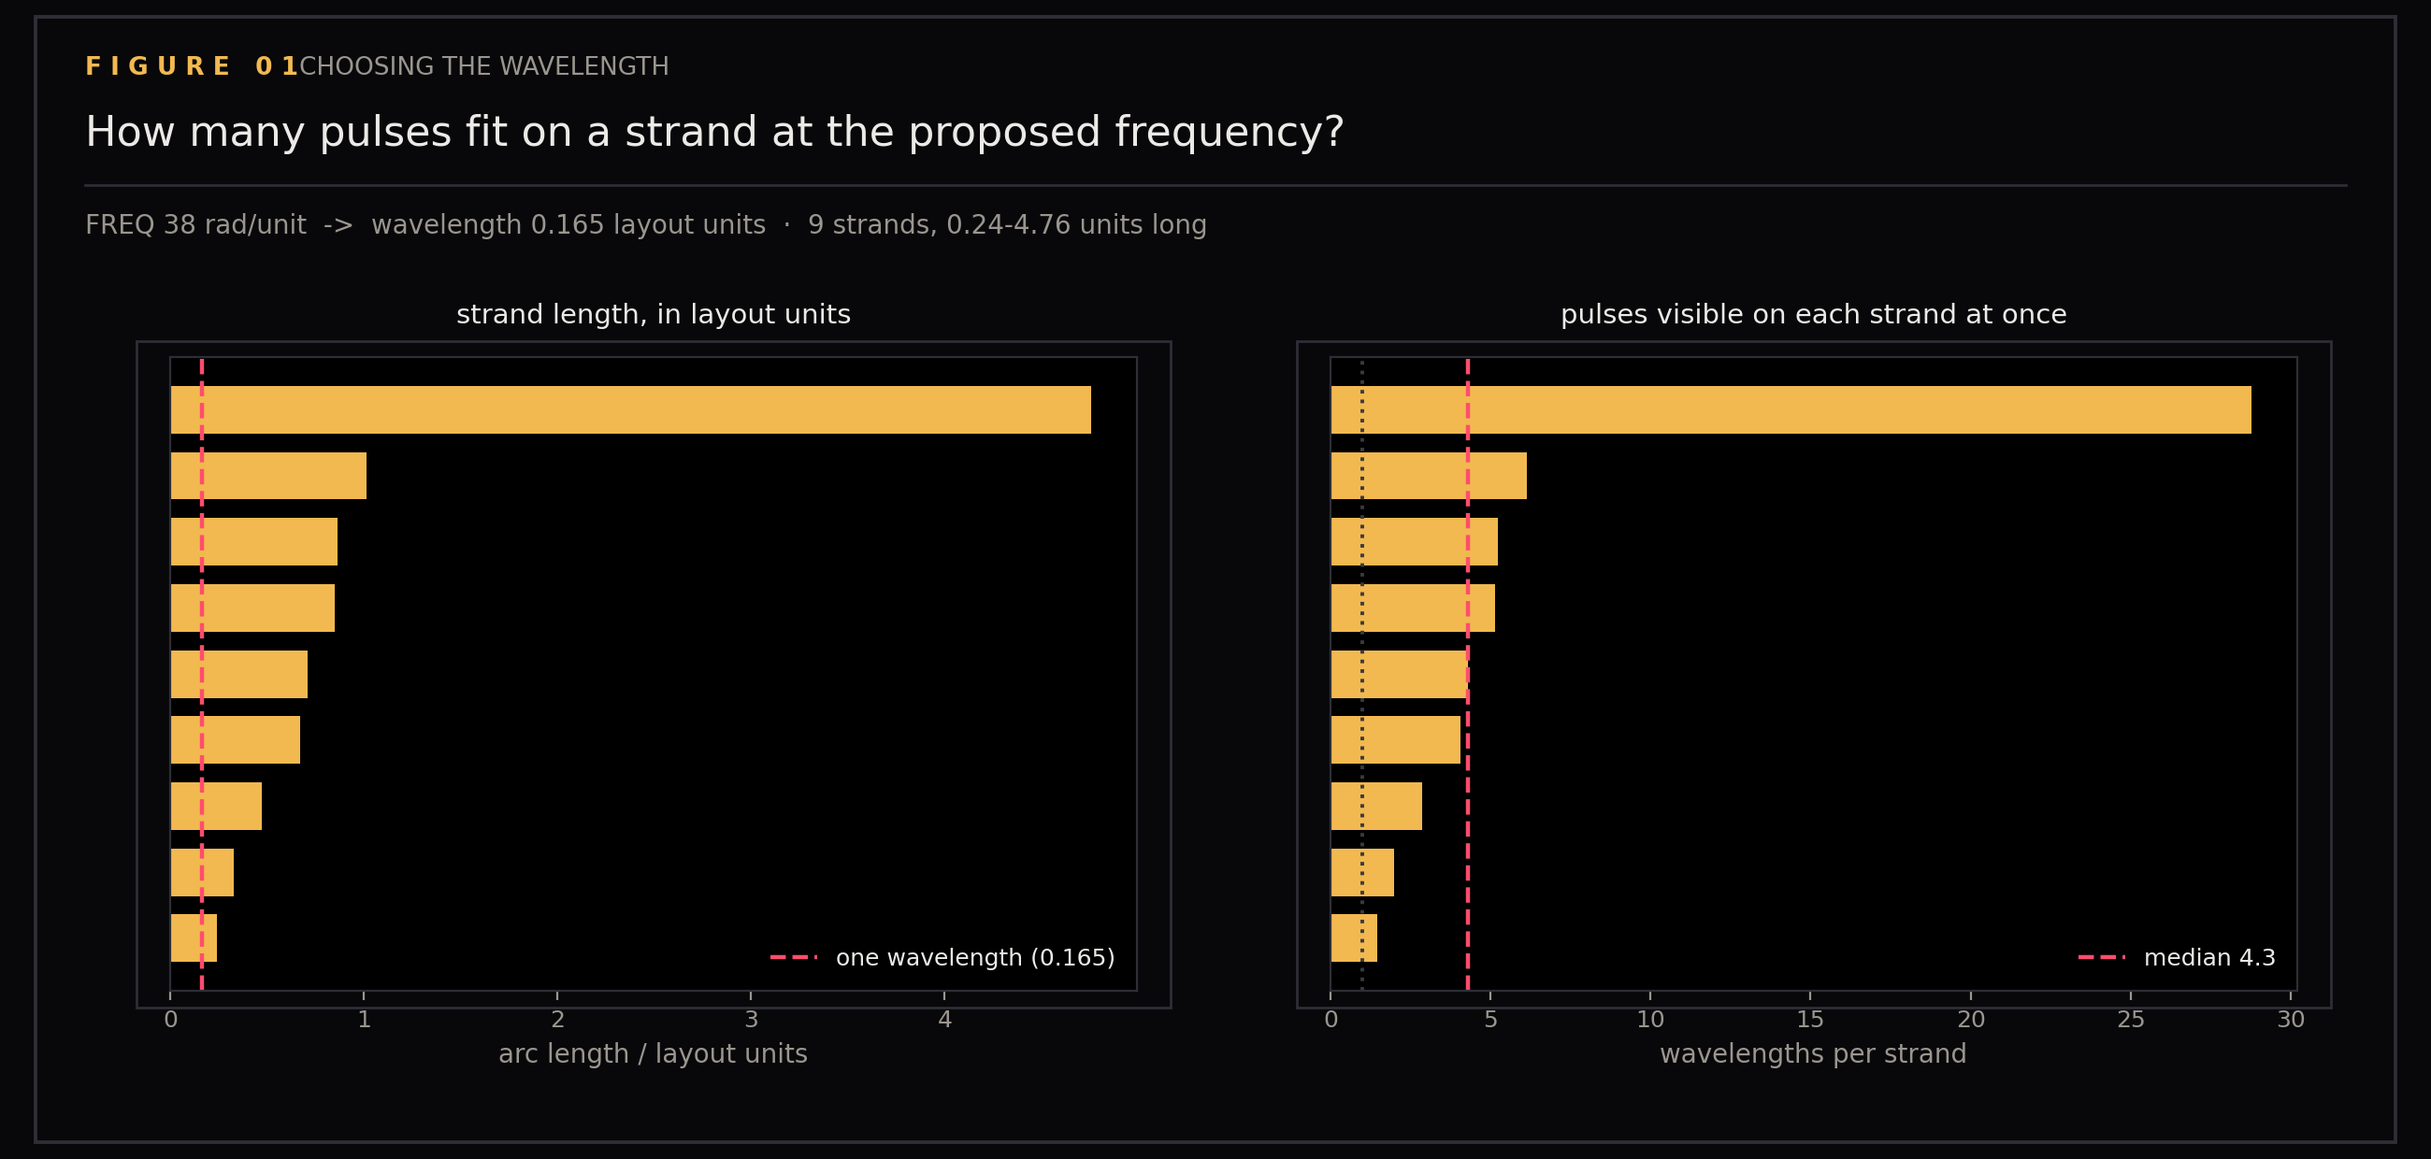
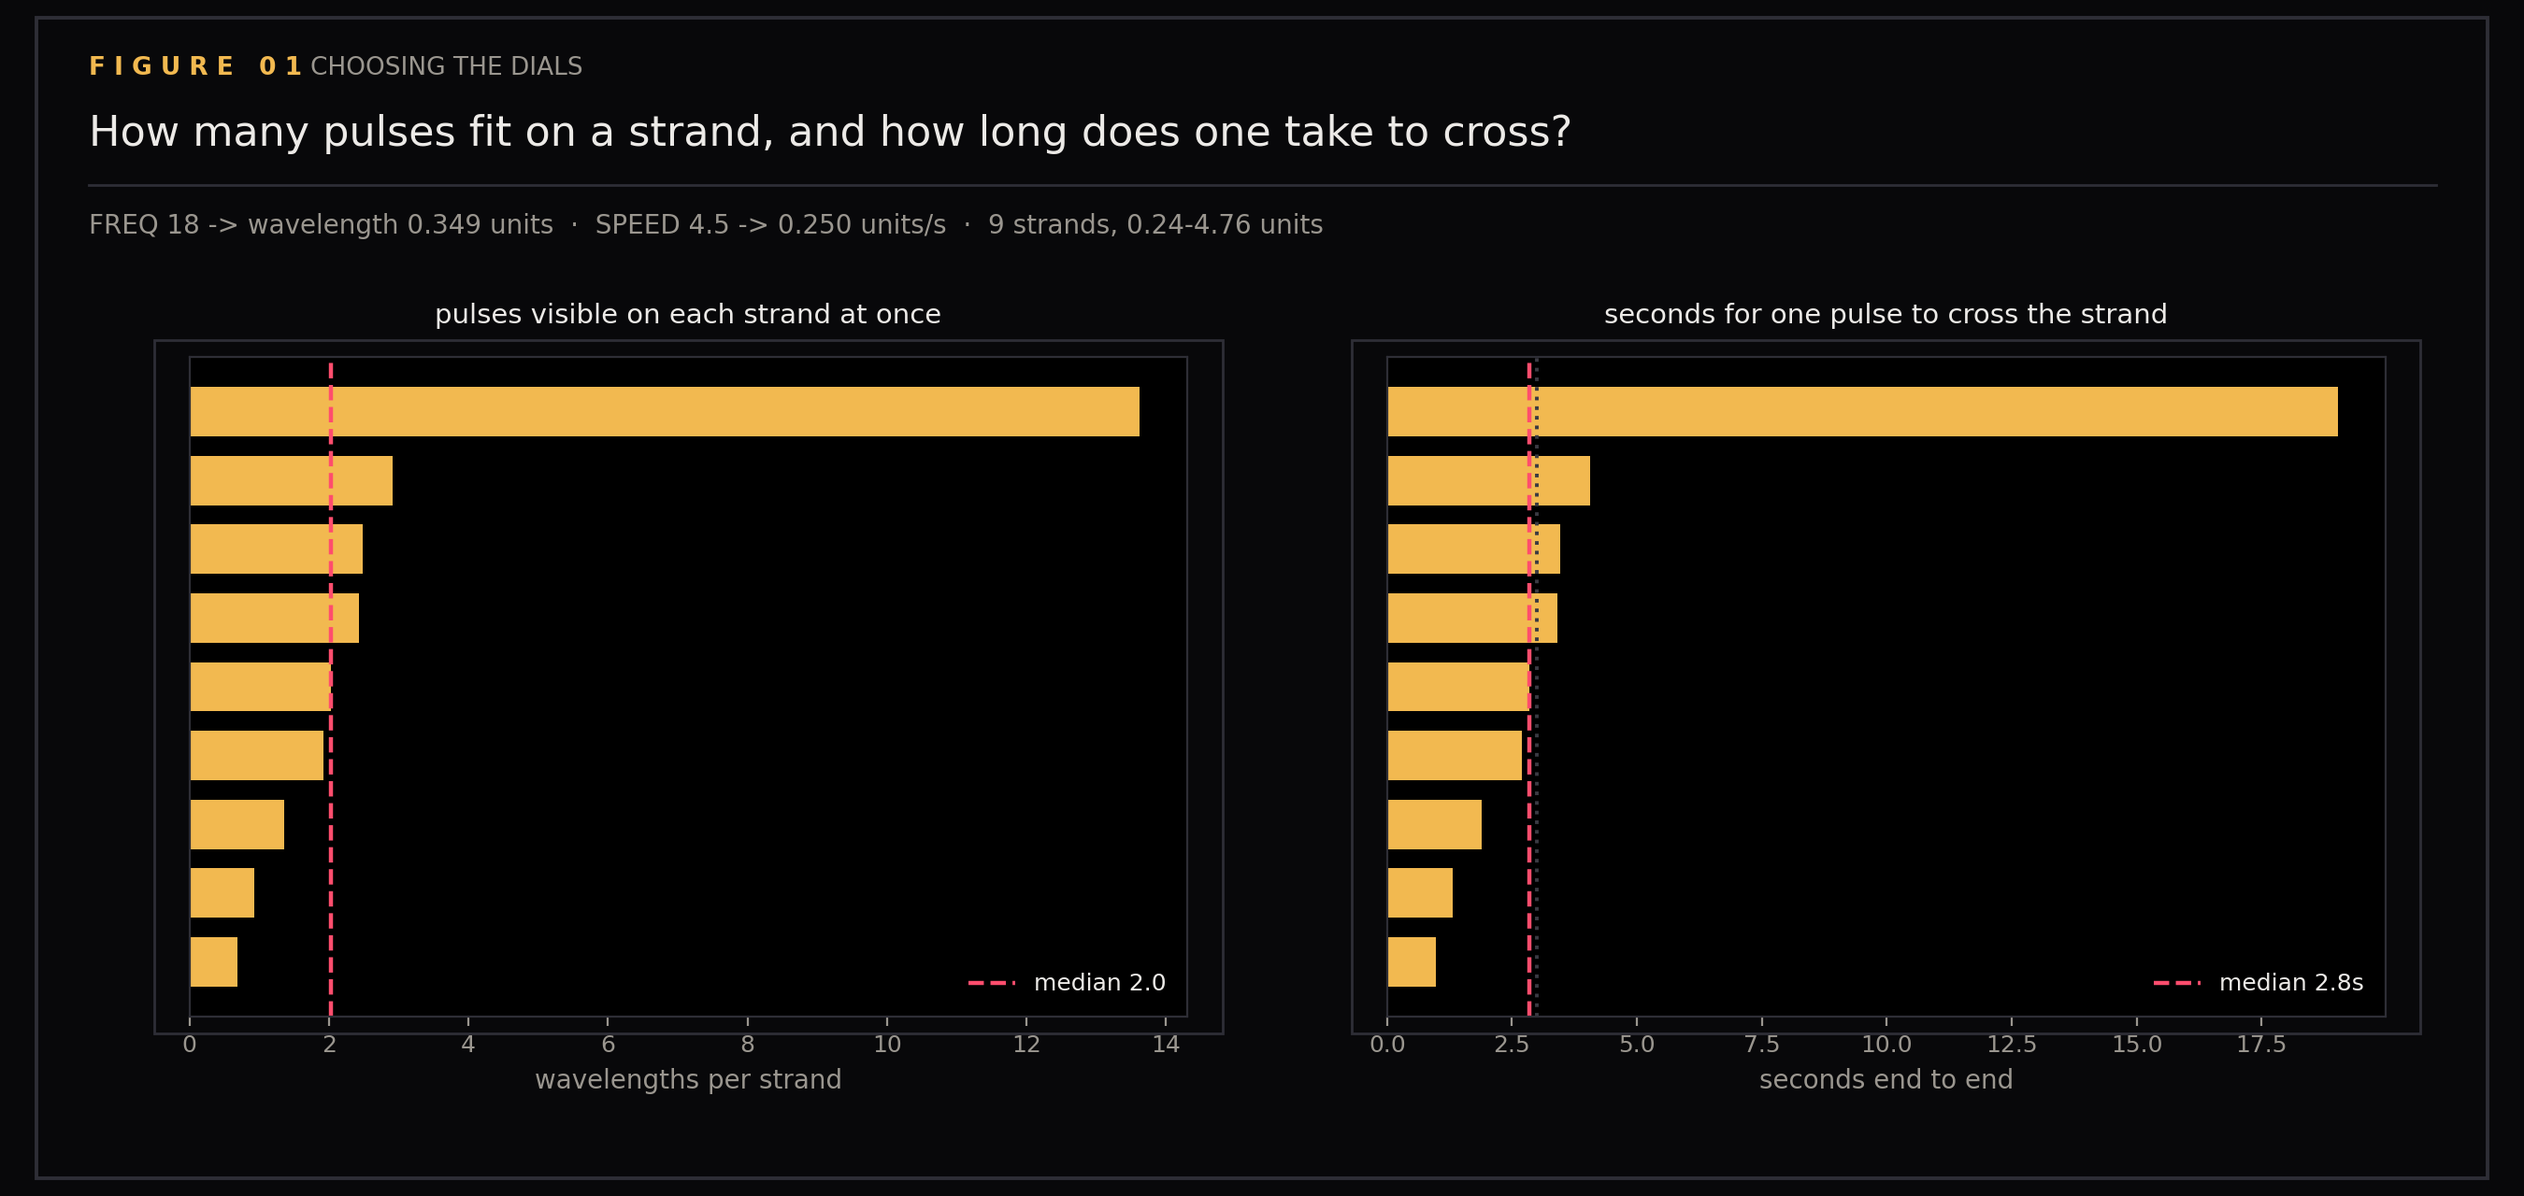
docs(flow-pulses): bloom, a hotter ramp, and a tuning shortlist
The first pass rendered the wave honestly and invisibly. The shader's
brightness only swings 0.56..1.0, and plain magma spends that entire span
in orange, so a crest read as a slightly different orange rather than as
light.

Two changes fix the legibility without changing the signal. The ramp now
ends white-hot, and that 0.56..1.0 span is stretched across it — same
arithmetic, wider paint. Bloom is faked the cheap way, each polyline drawn
three times widest-and-faintest first, with glow following brightness so
troughs stay tight and only crests bleed. Real bloom is feature C; this is
a preview of what that will feel like.

The brief's constants do not survive contact with the geometry. At FREQ 38
the wavelength is 0.165 units against strands of 0.24-4.76, so the spine
carries 28.8 pulses — stripes, not pulses. Worse, SPEED 2.2 at that
frequency moves light 0.058 units/s: 12s to cross a typical strand and 82s
to cross the spine, which is slow enough that nobody would read it as
motion at all.

Rung 04 is the shortlist, speed held near 0.25 units/s so the comparison
isolates density: calm (12/3.0), recommended (18/4.5), energetic
(26/6.5). All three cross a typical strand in 2.8s.

Claude-Session: https://claude.ai/code/session_013zbXMJaqiRrPgQERWeUrxx

diff --git a/scripts/plot_flow_pulses.py b/scripts/plot_flow_pulses.py
@@ -5,13 +5,14 @@ The pulse is one line of arithmetic:
     brightness = BASE + AMP * sin(arclen * FREQ - time * SPEED)
 
 `arclen` is how far along its own strand a vertex sits, measured by walking
-the strand rather than straight across. This script computes exactly that
-from the real filament payload and paints it with matplotlib, so FREQ and
-SPEED can be chosen by eye on the real geometry instead of by guessing in
-GLSL and rebuilding to look.
+the strand rather than straight across. Computed here exactly as the buffer
+build will compute it, so preview and shader cannot disagree about the ruler.
 
-The brief proposes FREQ 38, SPEED 2.2. Whether those are right is a question
-about wavelength against strand length, which is measurable — see rung 01.
+Rungs:
+  01  wavelength — how many pulses fit on each strand, and how long one takes
+  02  still frame — four instants of the same web, geometry fixed
+  03  the two dials — frequency and speed varied independently
+  04  shortlist — the settings worth choosing between, side by side
 
 Usage: uv run --with matplotlib --with numpy python scripts/plot_flow_pulses.py
 Figures land in docs/assets/flow-pulses/.
@@ -24,6 +25,7 @@ from pathlib import Path
 import matplotlib
 
 matplotlib.use("Agg")
+import matplotlib.colors as mcolors
 import matplotlib.pyplot as plt
 import numpy as np
 
@@ -40,15 +42,41 @@ from plot_assets import (
     figure,
     frame_panels,
     panel_title,
-    saturated_magma,
     style_axes,
 )
 
 OUTDIR = Path(__file__).resolve().parents[1] / "docs" / "assets" / "flow-pulses"
 MAP = Path.home() / ".ytk" / "map.json"
 
-BASE, AMP = 0.78, 0.22  # from the handoff brief
-FREQ, SPEED = 38.0, 2.2  # rad per layout unit, rad per second
+BASE, AMP = 0.78, 0.22  # the shader's actual brightness envelope
+FREQ, SPEED = 18.0, 4.5  # recommended; see fig04 for how these were chosen
+
+# The settings worth choosing between. Speed is held near 0.25 layout units/s
+# across all three, so what you are judging between them is pulse *density*
+# rather than pace — a pulse crosses a typical strand in about 3s in each.
+CANDIDATES = [
+    ("calm", 12.0, 3.0),
+    ("recommended", 18.0, 4.5),
+    ("energetic", 26.0, 6.5),
+]
+
+
+def neon():
+    """magma with the top end pushed to white-hot.
+
+    The shader's brightness only swings between 0.56 and 1.0, and plain magma
+    spends that whole span in orange — the travelling wave is real but nearly
+    invisible. Ending the ramp in white makes a crest read as light rather
+    than as a slightly different orange.
+    """
+    base = plt.get_cmap("magma")(np.linspace(0, 1, 256))
+    hsv = mcolors.rgb_to_hsv(base[:, :3])
+    hsv[:, 1] = np.clip(hsv[:, 1] * 1.45, 0, 1)
+    hsv[:, 2] = np.clip(hsv[:, 2] * 1.10, 0, 1)
+    base[:, :3] = mcolors.hsv_to_rgb(hsv)
+    tail = np.linspace(0, 1, 32)[:, None]
+    base[224:, :3] = base[224:, :3] * (1 - tail) + np.array([1.0, 0.97, 0.90]) * tail
+    return mcolors.ListedColormap(base, name="magma_neon")
 
 
 def save(fig, name: str) -> None:
@@ -65,12 +93,7 @@ def legend(ax, **kw):
 
 
 def load_strands():
-    """Filaments as (xyz, arclen, density) — arclen measured along the strand.
-
-    This is the one new quantity the shader needs, and it is why the tracer
-    mattered: predictor-corrector strands are ordered and near-uniformly
-    spaced, so a running sum of segment lengths is a trustworthy ruler.
-    """
+    """Filaments as (xyz, arclen, density), arclen measured along the strand."""
     data = json.loads(MAP.read_text())
     out = []
     for fil in data["all"]["web"]["filaments"]:
@@ -78,160 +101,222 @@ def load_strands():
         xyz = f[:, :3]
         den = f[:, 4] if f.shape[1] > 4 else np.ones(len(f))
         step = np.linalg.norm(np.diff(xyz, axis=0), axis=1)
-        alen = np.concatenate([[0.0], np.cumsum(step)])
-        out.append((xyz, alen, den))
+        out.append((xyz, np.concatenate([[0.0], np.cumsum(step)]), den))
     return out
 
 
-def brightness(alen, t, freq=FREQ, speed=SPEED):
-    return BASE + AMP * np.sin(alen * freq - t * speed)
+def draw_strand(ax, xyz, alen, den, t, cmap, freq=FREQ, speed=SPEED, lw=2.6):
+    """One strand, with bloom.
 
-
-def draw_strand(ax, xyz, alen, den, t, cmap, freq=FREQ, speed=SPEED, lw=2.4):
-    """One strand as coloured segments, brightness following the travelling wave."""
-    b = brightness(alen, t, freq, speed)
-    seg_b = 0.5 * (b[:-1] + b[1:])
+    Real bloom is a render-to-texture blur — that is feature C. Here it is
+    faked the cheap way, the same polyline drawn several times widest and
+    faintest first, which is enough to show what a crest will feel like once
+    C lands. Glow follows brightness, so troughs stay tight and only crests
+    bleed light.
+    """
+    b = BASE + AMP * np.sin(alen * freq - t * speed)
+    # The shader swings 0.56..1.0; stretching that across the full ramp is the
+    # same signal in wider paint, and it is the difference between seeing the
+    # wave and taking its existence on trust.
+    shade = (b - (BASE - AMP)) / (2 * AMP)
+    seg_s = 0.5 * (shade[:-1] + shade[1:])
     seg_d = 0.5 * (den[:-1] + den[1:])
+    taper = 0.45 + 0.55 * np.minimum(seg_d * 1.6, 1.0)
+
+    for width_mul, alpha_mul in ((5.5, 0.05), (3.2, 0.10), (1.9, 0.22)):
+        for i in range(len(xyz) - 1):
+            g = seg_s[i] ** 2.2  # only crests bloom
+            if g < 0.06:
+                continue
+            ax.plot(
+                xyz[i : i + 2, 0],
+                xyz[i : i + 2, 1],
+                color=cmap(float(np.clip(seg_s[i], 0, 1))),
+                lw=lw * taper[i] * width_mul,
+                alpha=alpha_mul * g,
+                solid_capstyle="round",
+                zorder=2,
+            )
     for i in range(len(xyz) - 1):
         ax.plot(
             xyz[i : i + 2, 0],
             xyz[i : i + 2, 1],
-            color=cmap(np.clip(seg_b[i], 0, 1)),
-            lw=lw * (0.45 + 0.55 * min(seg_d[i] * 1.6, 1.0)),
+            color=cmap(float(np.clip(seg_s[i], 0, 1))),
+            lw=lw * taper[i],
             solid_capstyle="round",
+            zorder=3,
         )
 
 
-def fig01_wavelength(strands):
-    """Is FREQ 38 sensible? A wavelength question, answered against real lengths."""
+def dark_panel(ax, title):
+    style_axes(ax)
+    ax.set_facecolor("#000000")
+    panel_title(ax, title, width=52)
+    ax.set_aspect("equal")
+    ax.set_xticks([])
+    ax.set_yticks([])
+
+
+def fig01(strands):
+    """Wavelength and traversal time — the two questions the dials answer."""
     lengths = np.array([a[-1] for _, a, _ in strands])
     wl = 2 * np.pi / FREQ
     cycles = lengths / wl
+    v = SPEED / FREQ
 
     fig, top = figure(
-        13.0,
-        6.2,
+        13.5,
+        6.4,
         1,
-        "choosing the wavelength",
-        "How many pulses fit on a strand at the proposed frequency?",
-        f"FREQ {FREQ:g} rad/unit  ->  wavelength {wl:.3f} layout units  ·  "
-        f"{len(strands)} strands, {lengths.min():.2f}-{lengths.max():.2f} units long",
+        "choosing the dials",
+        "How many pulses fit on a strand, and how long does one take to cross?",
+        f"FREQ {FREQ:g} -> wavelength {wl:.3f} units  ·  SPEED {SPEED:g} -> {v:.3f} units/s  ·  "
+        f"{len(strands)} strands, {lengths.min():.2f}-{lengths.max():.2f} units",
     )
     gs = fig.add_gridspec(
-        1, 2, width_ratios=[1.0, 1.0], left=0.07, right=1 - MARGIN - 0.02, top=top, bottom=0.145
+        1, 2, width_ratios=[1.0, 1.0], left=0.075, right=1 - MARGIN - 0.02, top=top, bottom=0.15
     )
+    order = np.argsort(lengths)
 
     ax = fig.add_subplot(gs[0])
     style_axes(ax)
-    panel_title(ax, "strand length, in layout units")
-    order = np.argsort(lengths)
-    ax.barh(np.arange(len(lengths)), lengths[order], color=GOLD, height=0.72)
-    ax.axvline(wl, color=RED, ls="--", lw=1.6, label=f"one wavelength ({wl:.3f})")
+    panel_title(ax, "pulses visible on each strand at once")
+    ax.barh(np.arange(len(cycles)), cycles[order], color=GOLD, height=0.72)
+    ax.axvline(
+        float(np.median(cycles)),
+        color=RED,
+        ls="--",
+        lw=1.6,
+        label=f"median {np.median(cycles):.1f}",
+    )
     ax.set_yticks([])
-    ax.set_xlabel("arc length / layout units")
+    ax.set_xlabel("wavelengths per strand")
     legend(ax, loc="lower right")
 
     ax = fig.add_subplot(gs[1])
     style_axes(ax)
-    panel_title(ax, "pulses visible on each strand at once")
-    ax.barh(np.arange(len(cycles)), cycles[order], color=GOLD, height=0.72)
-    ax.axvline(1, color=DIM, ls=":", lw=1.4)
+    panel_title(ax, "seconds for one pulse to cross the strand")
+    ax.barh(np.arange(len(lengths)), lengths[order] / v, color=GOLD, height=0.72)
+    ax.axvline(3.0, color=DIM, ls=":", lw=1.4)
     ax.axvline(
-        np.median(cycles), color=RED, ls="--", lw=1.6, label=f"median {np.median(cycles):.1f}"
+        float(np.median(lengths) / v),
+        color=RED,
+        ls="--",
+        lw=1.6,
+        label=f"median {np.median(lengths) / v:.1f}s",
     )
     ax.set_yticks([])
-    ax.set_xlabel("wavelengths per strand")
+    ax.set_xlabel("seconds end to end")
     legend(ax, loc="lower right")
     save(fig, "01-wavelength-choice.png")
     return lengths, cycles
 
 
-def fig02_still(strands):
-    """The pulse on a still frame — four instants of the same geometry."""
-    cmap = saturated_magma()
-    times = [0.0, 0.30, 0.60, 0.90]
-
+def fig02(strands):
+    """The pulse on a still frame — four instants of identical geometry."""
+    cmap = neon()
     fig, top = figure(
         16.0,
-        5.6,
+        6.4,
         2,
         "the pulse on a still frame",
-        "Four instants of the same web, 0.3s apart",
+        "Four instants of the same web, 0.25s apart",
         f"brightness = {BASE:g} + {AMP:g}·sin(arclen·{FREQ:g} − time·{SPEED:g})  ·  "
-        f"the geometry never moves; only the brightness travels",
+        f"the geometry never moves; only the light travels",
     )
     gs = fig.add_gridspec(
-        1, 4, left=0.02, right=1 - MARGIN - 0.01, top=top, bottom=0.06, wspace=0.06
+        1, 4, left=0.015, right=1 - MARGIN - 0.005, top=top, bottom=0.03, wspace=0.04
     )
-    for k, t in enumerate(times):
+    for k, t in enumerate([0.0, 0.25, 0.50, 0.75]):
         ax = fig.add_subplot(gs[k])
-        style_axes(ax)
-        ax.set_facecolor("#000000")
-        panel_title(ax, f"t = {t:.2f}s")
+        dark_panel(ax, f"t = {t:.2f}s")
         for xyz, alen, den in strands:
             draw_strand(ax, xyz, alen, den, t, cmap)
-        ax.set_aspect("equal")
-        ax.set_xticks([])
-        ax.set_yticks([])
     save(fig, "02-pulse-still.png")
 
 
-def fig03_speed(strands):
-    """Speed and frequency are separate dials. Show what each one does."""
-    cmap = saturated_magma()
-    longest = max(strands, key=lambda s: s[1][-1])
+def fig03(strands):
+    """Frequency and speed are separate dials."""
+    cmap = neon()
+    xyz, alen, den = max(strands, key=lambda s: s[1][-1])
 
     fig, top = figure(
         15.0,
-        6.6,
+        7.0,
         3,
         "the two dials",
         "Frequency sets how close the pulses are; speed sets how fast they run",
-        "the longest strand — the epicmap spine — at one instant, under three "
-        "frequencies and three speeds",
+        "the epicmap spine — the longest strand, 4.76 units — under three of each",
     )
     gs = fig.add_gridspec(
-        2, 3, left=0.045, right=1 - MARGIN - 0.02, top=top, bottom=0.075, hspace=0.32, wspace=0.08
+        2, 3, left=0.03, right=1 - MARGIN - 0.01, top=top, bottom=0.04, hspace=0.30, wspace=0.05
     )
-    xyz, alen, den = longest
-    for i, f in enumerate([18.0, 38.0, 76.0]):
+    for i, f in enumerate([12.0, 18.0, 26.0]):
         ax = fig.add_subplot(gs[0, i])
-        style_axes(ax)
-        ax.set_facecolor("#000000")
-        panel_title(ax, f"FREQ {f:g}" + ("  (proposed)" if f == FREQ else ""))
-        draw_strand(ax, xyz, alen, den, 0.0, cmap, freq=f, lw=3.0)
-        ax.set_aspect("equal")
-        ax.set_xticks([])
-        ax.set_yticks([])
-    # Speed cannot be seen in a still, so show the phase it reaches after a
-    # fixed 0.5s — a faster dial has simply travelled further by then.
-    for i, s in enumerate([1.1, 2.2, 4.4]):
+        dark_panel(ax, f"FREQ {f:g}" + ("  (recommended)" if f == FREQ else ""))
+        draw_strand(ax, xyz, alen, den, 0.0, cmap, freq=f, lw=3.2)
+    # Speed cannot be seen in a still, so show how far each has carried its
+    # crests by the same moment.
+    for i, s in enumerate([2.0, 4.5, 8.0]):
         ax = fig.add_subplot(gs[1, i])
-        style_axes(ax)
-        ax.set_facecolor("#000000")
-        panel_title(ax, f"SPEED {s:g} after 0.5s" + ("  (proposed)" if s == SPEED else ""))
-        draw_strand(ax, xyz, alen, den, 0.5, cmap, speed=s, lw=3.0)
-        ax.set_aspect("equal")
-        ax.set_xticks([])
-        ax.set_yticks([])
+        dark_panel(ax, f"SPEED {s:g}, at t = 0.5s" + ("  (recommended)" if s == SPEED else ""))
+        draw_strand(ax, xyz, alen, den, 0.5, cmap, speed=s, lw=3.2)
     save(fig, "03-two-dials.png")
+
+
+def fig04(strands):
+    """The three settings worth choosing between, on the whole web."""
+    cmap = neon()
+    lengths = np.array([a[-1] for _, a, _ in strands])
+    med = float(np.median(lengths))
+
+    fig, top = figure(
+        15.0,
+        6.8,
+        4,
+        "the shortlist",
+        "Three settings, same web, same instant — pick one",
+        "speed is held near 0.25 units/s in all three, so what differs between "
+        "them is pulse density, not pace",
+    )
+    gs = fig.add_gridspec(
+        1, 3, left=0.02, right=1 - MARGIN - 0.005, top=top, bottom=0.04, wspace=0.04
+    )
+    for i, (name, f, s) in enumerate(CANDIDATES):
+        v = s / f
+        ax = fig.add_subplot(gs[i])
+        dark_panel(
+            ax,
+            f"{name} — FREQ {f:g}, SPEED {s:g}   ·   "
+            f"{med / (2 * np.pi / f):.1f} pulses on a typical strand, "
+            f"{med / v:.1f}s to cross it",
+        )
+        for xyz, alen, den in strands:
+            draw_strand(ax, xyz, alen, den, 0.0, cmap, freq=f, speed=s)
+    save(fig, "04-shortlist.png")
 
 
 def main():
     strands = load_strands()
-    lengths, cycles = fig01_wavelength(strands)
-    fig02_still(strands)
-    fig03_speed(strands)
+    lengths, cycles = fig01(strands)
+    fig02(strands)
+    fig03(strands)
+    fig04(strands)
+    v = SPEED / FREQ
     print()
     print(f"  strands            {len(strands)}")
     print(
-        f"  arc length         {lengths.min():.3f}-{lengths.max():.3f} (median {np.median(lengths):.3f})"
+        f"  arc length         {lengths.min():.2f}-{lengths.max():.2f} "
+        f"(median {np.median(lengths):.2f})"
     )
-    print(f"  wavelength @ {FREQ:g}   {2 * np.pi / FREQ:.4f}")
+    print(f"  wavelength @ {FREQ:g}   {2 * np.pi / FREQ:.3f}")
     print(
         f"  pulses per strand  {cycles.min():.1f}-{cycles.max():.1f} (median {np.median(cycles):.1f})"
     )
-    print(f"  pulse travels      {SPEED / FREQ:.4f} units/s")
+    print(f"  pulse speed        {v:.3f} units/s")
+    print(
+        f"  crossing time      median {np.median(lengths) / v:.1f}s, spine {lengths.max() / v:.1f}s"
+    )
 
 
 if __name__ == "__main__":
